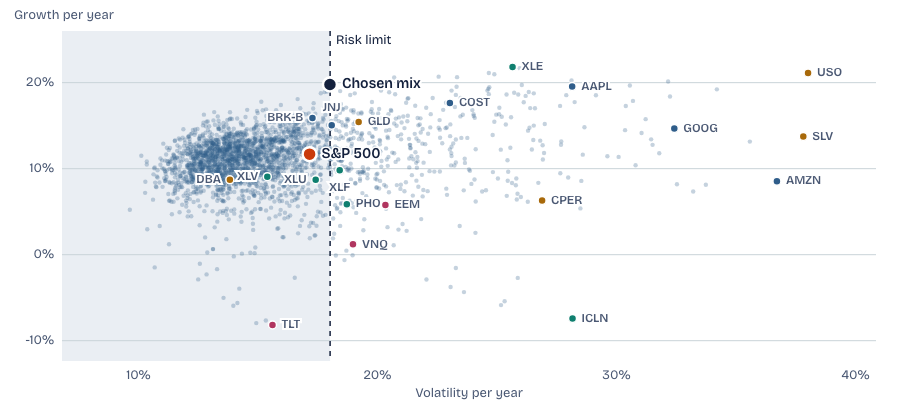
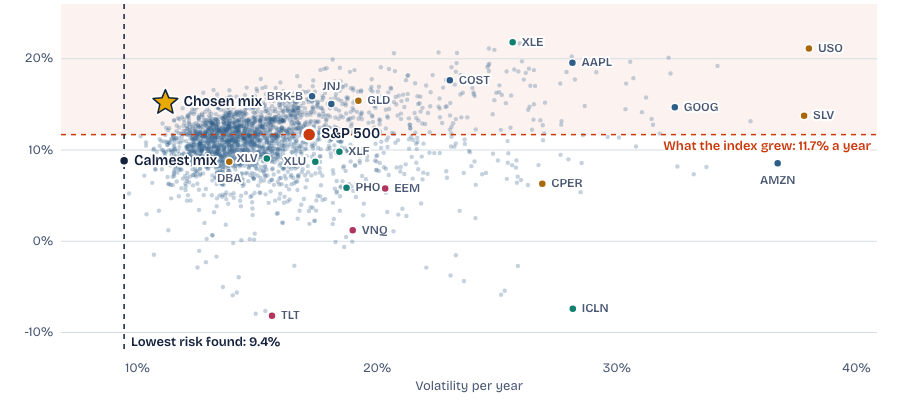
Portfolio card: new rule and chart (star, index line, lowest risk)

diff --git a/data.js b/data.js
@@ -52,9 +52,9 @@ window.BOARD = {
 
     // ---- Finance ---------------------------------------------------------
     { id: "portopt", type: "project", frame: "finance", x: 2080, y: 240, w: 340,
-      image: "assets/portfolio-frontier.png", alt: "Scatter of simulated portfolios by risk and return, with the 20 single assets, the S&P 500 and the chosen mix marked",
+      image: "assets/portfolio-frontier.png", alt: "Scatter of simulated portfolios by risk and return: a star marks the mix with the most growth per unit of risk, a horizontal line what the S&P 500 grew, a vertical line the lowest risk found",
       title: "Portfolio optimisation",
-      body: "Can 20 assets beat the index? Apple, Costco, gold, oil, water and more, split 10,000 ways, re-simulated every trading day on five years of prices and compared with the S&P 500. Try your own split.",
+      body: "Can 20 assets beat the index? Apple, Costco, gold, oil, water and more, split 10,000 ways to find the mix with the most growth for the least risk. Re-simulated every trading day on five years of prices and compared with the S&P 500. Try your own split.",
       tags: ["Optimisation", "20 assets", "Cloud Run", "Daily refresh"],
       url: "https://portfolio-optimization-362940142596.europe-west3.run.app/",
       cta: "Open the app" },
